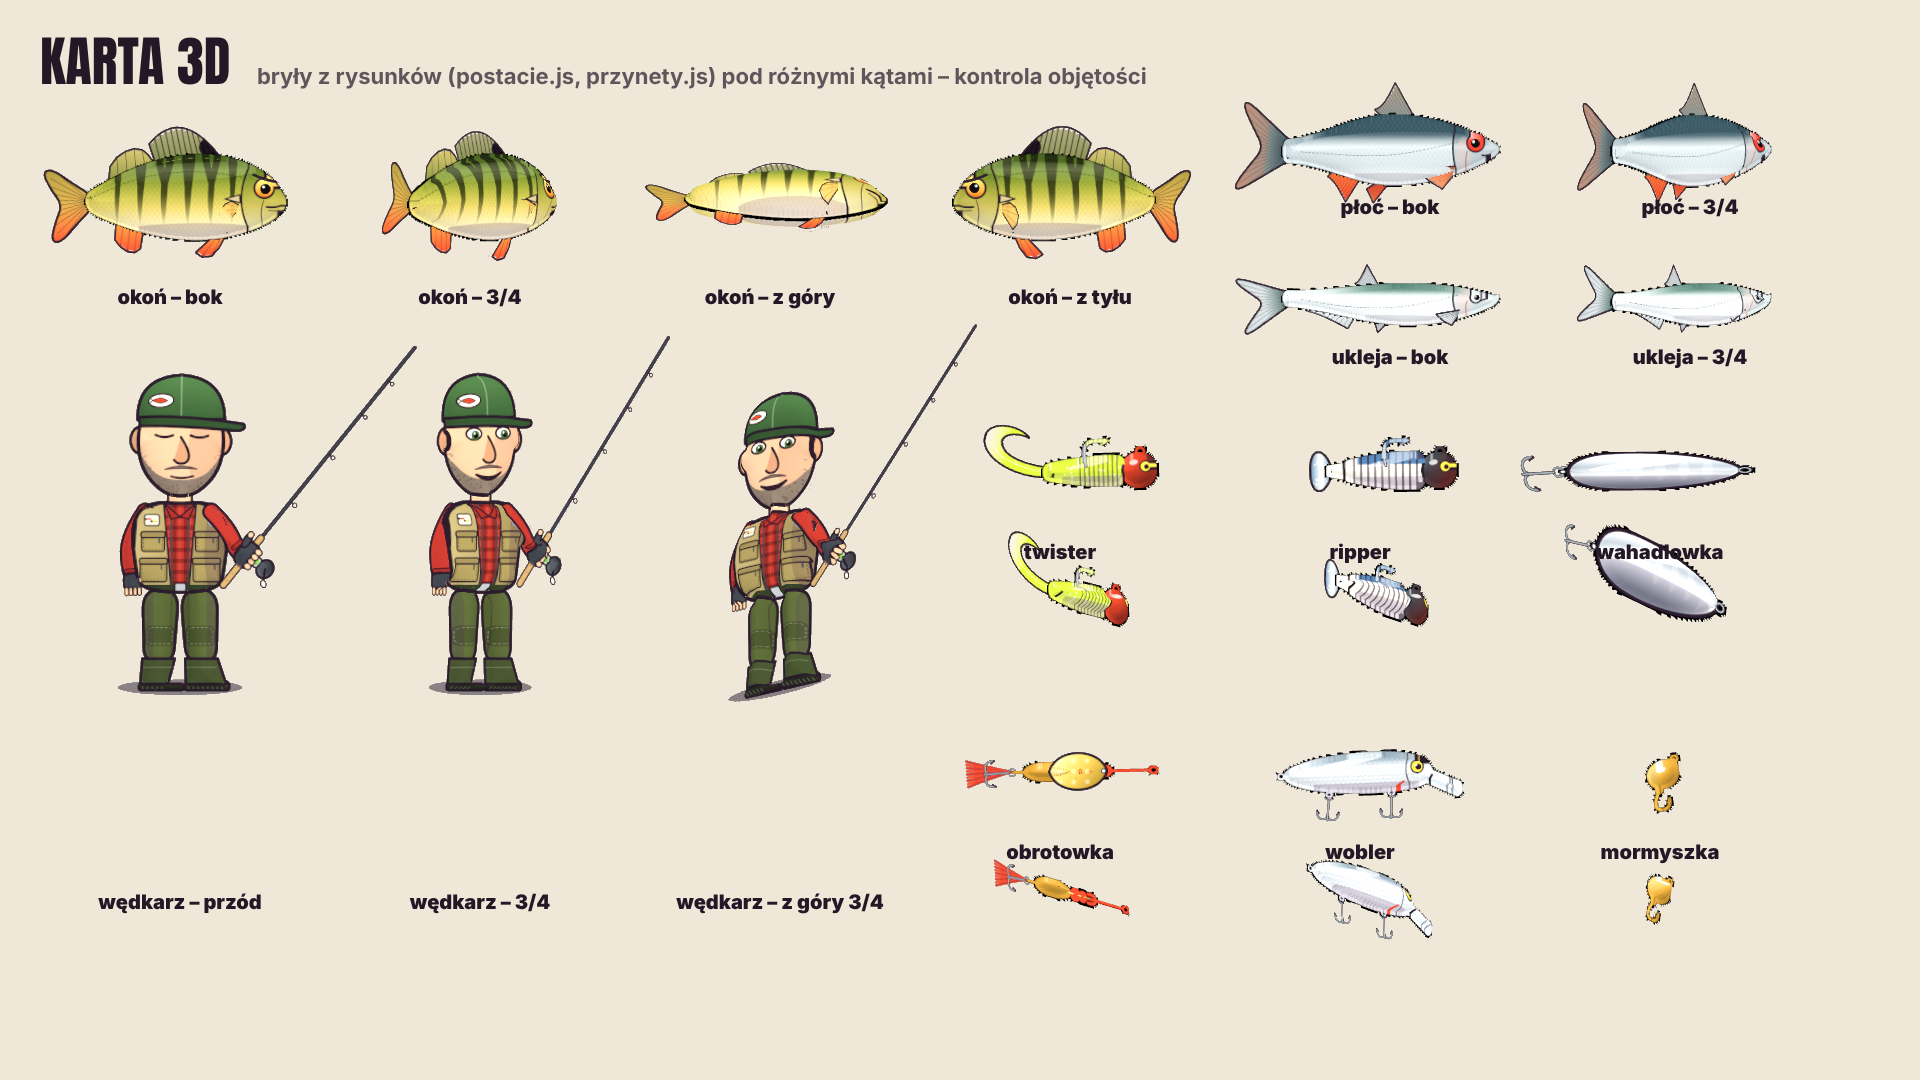
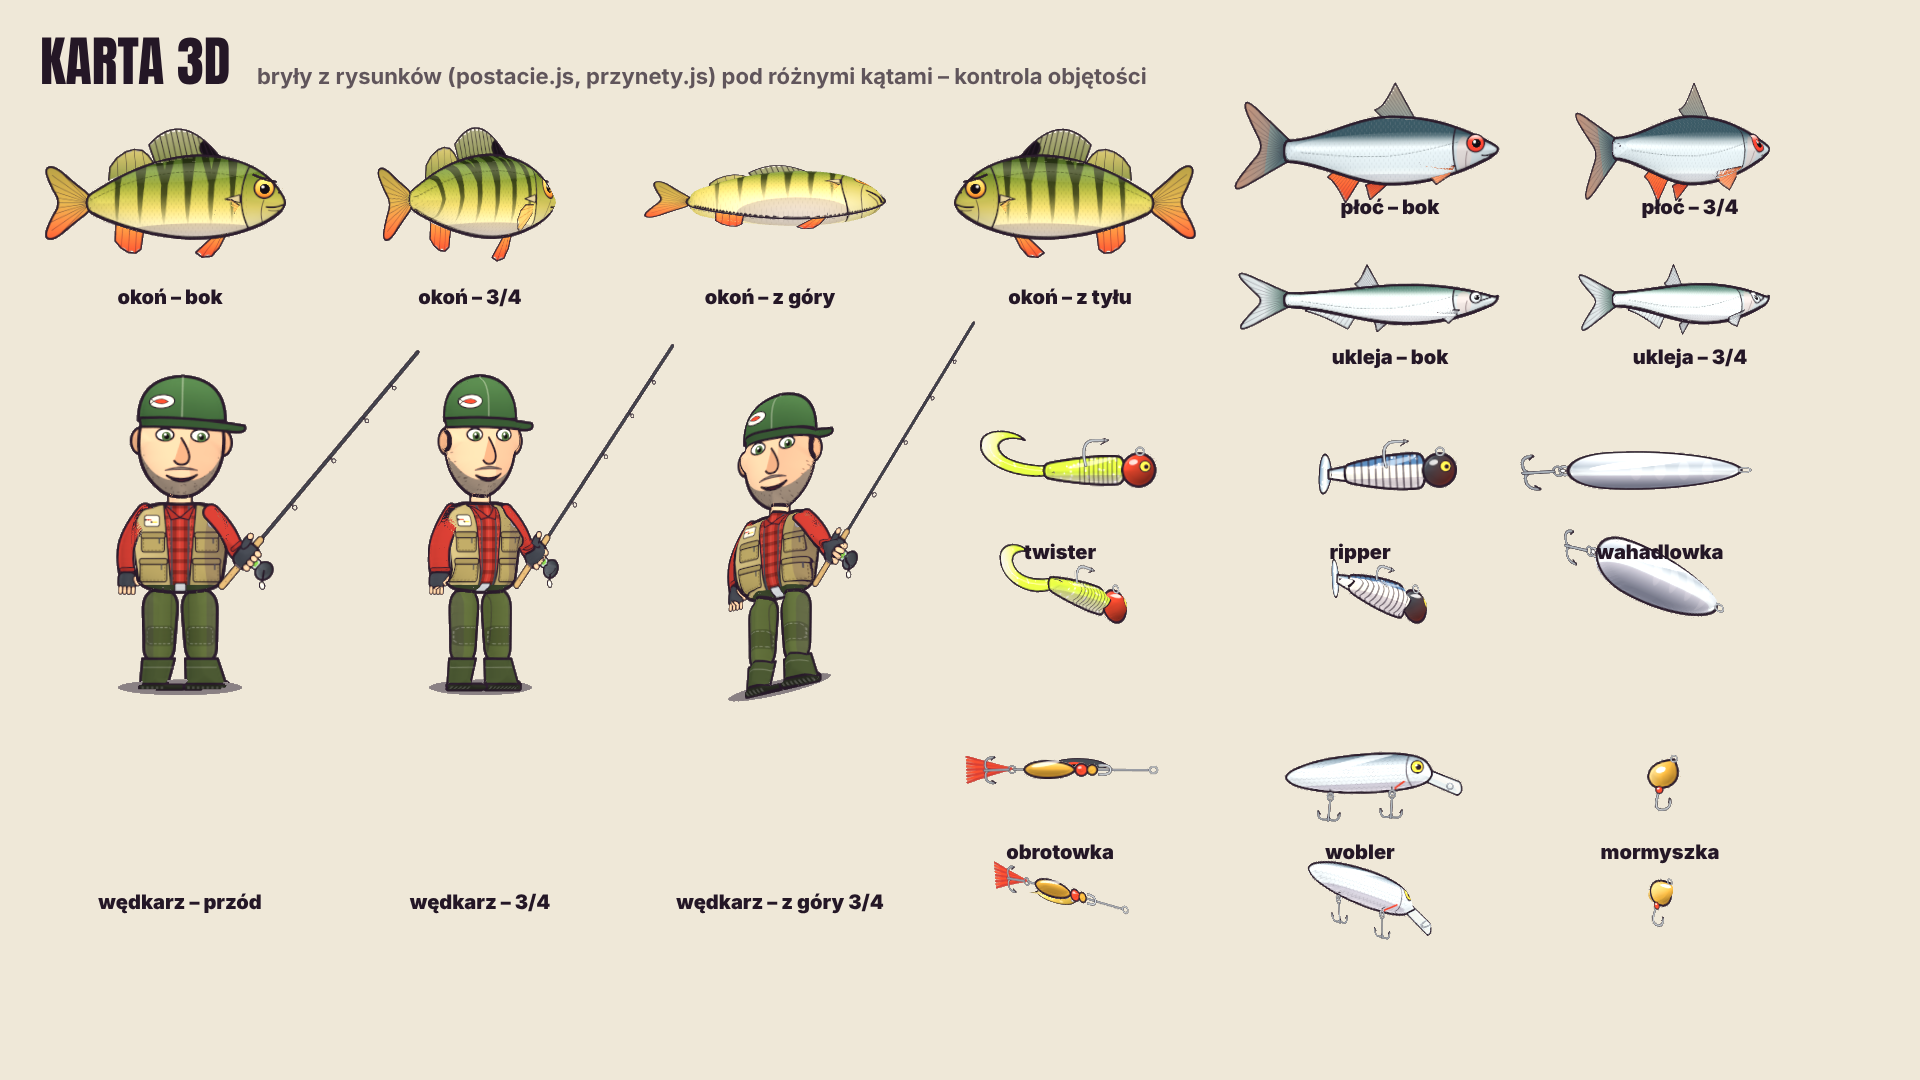
Poprawki: bez ważki przy wypuszczaniu, oczy okonia bez rozjeżdżania (warstwy przy powierzchni), plecionka 0,05–0,10 mm, paletka obrotówki szeroko wokół drutu, okoń w dłoni głową od wędkarza, paszcza otwarta 0,6 s przed połknięciem i zamknięta od razu, wobler bez oczka w ogonie
Claude-Session: https://claude.ai/code/session_01YFDAx3363ZnHR5mXZwci3a

diff --git a/atlas3d/okon_jak2.html b/atlas3d/okon_jak2.html
@@ -169,7 +169,7 @@ const SCENY = {
     el(PRZYNETY.twister({ dl: .28 }), X - .16, 1.06, 11.2, { predkosc: .6 }); el(PRZYNETY.ripper({ dl: .28 }), X + .3, 1.06, 11.6, { predkosc: .6 });
     el(PRZYNETY.obrotowka({ dl: .3 }), X - .16, .66, 13.2, { predkosc: .5 }); el(PRZYNETY.wobler({ dl: .28 }), X + .3, .66, 13.6, { predkosc: .6 });
     dzwiek(4.8, 'korbka', .6);
-    etykieta('wędka 2–10 g', -3.2, 2.2, z, 'z', 1.8); etykieta('kołowrotek 1000–2500', X + .02, 1.9, z, 'z', 5, 7.4); etykieta('cienka plecionka', X + .38, 1.9, z, '', 7.6);
+    etykieta('wędka 2–10 g', -3.2, 2.2, z, 'z', 1.8); etykieta('kołowrotek 1000–2500', X + .02, 1.9, z, 'z', 5, 7.4); etykieta('plecionka 0,05–0,10 mm', X + .38, 1.9, z, '', 7.6);
     etykieta('przypon: fluorocarbon lub żyłka 0,16–0,22 mm', X + .2, 1.47, z, '', 9);
     etykieta('guma 4–7 cm na główce', X + .07, 1.18, z, 'z', 11.8); etykieta('obrotówki i woblery', X + .07, .8, z, '', 13.8);
     return `<div class="chip" data-od=".2">🎒 SPRZĘT</div><h1 data-od=".5" data-do="16">Lekki<br><span>spinning</span></h1><div class="opis" style="top:300px;left:auto;right:64px;text-align:right" data-od="1" data-do="16">na drapieżnika</div>
@@ -217,7 +217,7 @@ const SCENY = {
         const bok = (1.05 * Math.sin(t * 2.1) + .25 * Math.sin(t * 4.7)) * (1 - k * .45);
         const nur = .7 * (odj(13.9) + odj(15.6) + odj(17.6)) + .3 * Math.max(0, Math.sin(t * 1.7 + 1)) * (1 - k * .6);
         return { x: lerp(P0.x + PY, Q.x, k) + bok, y: lerp(P0.y + .012, Q.y, k) - nur + .12 * Math.sin(t * 6.1), z: lerp(zt, Q.z, k) + bok * .3, patrzNa: [PX, -3.6] }; }   // w holu głową do wędkarza
-      w.updateMatrixWorld(true); const d = w.userData.postac.dlon(); return { x: d.x + .25, y: d.y + .05, z: d.z }; };
+      w.updateMatrixWorld(true); const d = w.userData.postac.dlon(); return { x: d.x - .2, y: d.y + .05, z: d.z, kier: -1 }; };
     o.userData.ryba.walka = t => t >= BR && t < LAD ? 1 : 0;   // szarpanie łbem i ogonem w holu
     w.userData.ruch = t => { const st = w.userData.postac.st, wyj = t >= LAD; st.hol = t >= BR && !wyj; st.podrywanie = t < BR; st.trzyma = wyj; st.mina = wyj ? 'usmiech' : 'skupiony'; o.userData.bezKolizji = wyj; return {}; };
     zylka(w, t => { const p = tor.punkt(Math.min(ruch(t), 1)); return [p.x, p.y, p.z]; }, false, { typ: 'ripper', dl: .55, branie: { od: BR, ryba: o } });
@@ -270,11 +270,11 @@ const SCENY = {
     nowaScena({ ...LATO, seed: 51 }); swiatJezioro(); pomost(PX, -26, -3);
     const POD = [[-2.6, 0, 1.6], [-4.9, -1.85, -4.6]], NAD = [[-4.4, 1.5, 1.8], [-5, 1.3, -3.6]];
     kam(...NAD, { klucze: [[0, ...NAD], [2.4, [-4.3, 1.3, 2.1], [-4.8, .8, -3.4]], [3.8, [-2.4, 0, 1.4], [-4.9, -1.75, -3.6]], [19, ...POD]] });
-    kregi(4); wazka(-3.5, 1.3, -1);
+    kregi(4);
     const w = postaw(wedkarz(1.9, { st: { mina: 'usmiech', trzyma: true } }), PX, .65, -3.6);
-    const r = postaw(okon(.42, { mina: 'zdziwiony', lewo: true }), PX, 1.5, -3.3);
+    const r = postaw(okon(.42, { mina: 'zdziwiony' }), PX, 1.5, -3.3);
     r.userData.ruch = t => { w.updateMatrixWorld(true); const d = w.userData.postac.dlon(), k = sm((t - 1.6) / .9), a = sm((t - 2.6) / 6);
-      return { x: d.x + .25 + .5 * k - 1.15 * a - .03 * Math.max(0, t - 2.6), y: lerp(d.y + .05, -1.1, k) - .35 * a + .04 * Math.sin(t * 3) * a }; };
+      return { x: d.x - .2 - .2 * k - 1.15 * a - .03 * Math.max(0, t - 2.6), y: lerp(d.y + .05, -1.1, k) - .35 * a + .04 * Math.sin(t * 3) * a, kier: t < 2.6 ? -1 : undefined }; };   // w dłoni: ogon przy dłoni, głowa na zewnątrz – od wędkarza
     r.userData.bezKolizji = true;
     [[-4.3, -1.3, -6.6, .42, 0], [-3.8, -1.6, -7.1, .4, 2], [-4.6, -1.7, -7.4, .36, 4]].forEach(([x, y, z, dl, f]) => plyw(postaw(okon(dl), x, y, z), { dx: .25, okres: 7, faza: f }));
     babelki(); mul();

diff --git a/atlas3d/postacie.js b/atlas3d/postacie.js
@@ -118,7 +118,7 @@ function nadmuchaj(czesci, { T, D, plaskie = [], bryla, ob = 15 } = {}) {
       for (let j = 0; j <= ny; j++) for (let i = 0; i <= nx; i++) { const px = Math.min(W - 1, Math.round(i / nx * (W - 1))), py = Math.min(Hh - 1, Math.round(j / ny * (Hh - 1)));
         let m = 0; for (let dy = -2; dy <= 2; dy++) for (let dx = -2; dx <= 2; dx++) { const xx = Math.min(W - 1, Math.max(0, px + dx * Math.ceil(res * SIATKA / 4))), yy = Math.min(Hh - 1, Math.max(0, py + dy * Math.ceil(res * SIATKA / 4))); m = Math.max(m, dat[(yy * W + xx) * 4 + 3]); }
         if (m > 10) al[j * (nx + 1) + i] = 1; } }
-    const poz = [], uv = [], idx = [], nr = new Int32Array((nx + 1) * (ny + 1)).fill(-1), eps = c.userData.kolejnosc * Math.max(1.2, T * .012) + .4;   // każda warstwa wyraźnie nad poprzednią (źrenica nad okiem, oko nad ciałem) – bez przebijania przy różnej gęstości siatek   // nakładki tuż nad powierzchnią (bez odstawania)
+    const poz = [], uv = [], idx = [], nr = new Int32Array((nx + 1) * (ny + 1)).fill(-1), eps = .5 + .12 * c.userData.kolejnosc;   // warstwy tuż przy powierzchni (oko, źrenica, brew bez paralaksy); kolejność rysowania z polygonOffset   // każda warstwa wyraźnie nad poprzednią (źrenica nad okiem, oko nad ciałem) – bez przebijania przy różnej gęstości siatek   // nakładki tuż nad powierzchnią (bez odstawania)
     for (let strona = 0; strona < 2; strona++) {
       nr.fill(-1);
       for (let j = 0; j <= ny; j++) for (let i = 0; i <= nx; i++) {
@@ -148,6 +148,7 @@ function nadmuchaj(czesci, { T, D, plaskie = [], bryla, ob = 15 } = {}) {
     const map = c.material.map; c.material.dispose();
     c.material = new THREE.MeshLambertMaterial({ map, emissiveMap: map, emissive: '#ffffff', emissiveIntensity: 1, color: '#ffffff', transparent: true, alphaTest: .35, depthWrite: true, side: THREE.FrontSide });
     c.material.userData.jasnosc = .5; c.material.color.setScalar(.5);
+    c.material.polygonOffset = true; c.material.polygonOffsetFactor = -c.userData.kolejnosc * .6; c.material.polygonOffsetUnits = -c.userData.kolejnosc * 4;
     if (bryla.includes(c) && bryla !== czesci) c.material.alphaTest = .35;
     if (bryla.includes(c) && bryla !== czesci) c.layers.enable(5);   // bryła: kształt wyznacza siatka, bez dziur przy brzegu (przez dziury prześwitywał czarny kontur)
     // kontur bryły (odwrócona otoczka): czarna skorupa widoczna tylko na krawędzi sylwetki pod każdym kątem; wspólna geometria – podąża za falą ciała

diff --git a/atlas3d/przynety.js b/atlas3d/przynety.js
@@ -142,11 +142,12 @@ export function stworzObrotowke({ dl = .1, paletka = ['#e9c85a', '#3b3f48'] } = 
     tyl: g => { ksz(g); wypelnij(g, paletka[1]); g.save(); ksz(g); g.clip(); g.beginPath(); g.arc(370, 110, 26, 0, 7); wypelnij(g, '#e2452a'); g.beginPath(); g.arc(370, 110, 11, 0, 7); wypelnij(g, '#111'); g.restore(); ksz(g); obrys(g, 7); g.beginPath(); g.arc(452, 110, 6, 0, 7); wypelnij(g, '#e9edf0'); obrys(g, 3); },
   });
   blacha.userData.ustaw('przod');
-  const grupa = zloz([kotw, korpus, blacha], kb); podepnij(korpus, kotw); podepnij(korpus, blacha); const f = Math.random() * 6;
+  const grupa = zloz([kotw, korpus, blacha], kb); podepnij(korpus, kotw); podepnij(korpus, blacha); const f = Math.random() * 6, dlB = dl * 1.1;
   grupa.userData.przyneta = { dl, nos: nosZ(s, O, OCZKO), anim: (t, st = {}) => {
     const w = 30 * (st.predkosc ?? 1), c = Math.cos(w * t + f);
     korpus.rotation.z = .02 * Math.sin(w * .1 * t + f);
     blacha.scale.y = Math.max(.06, Math.abs(c)); blacha.userData.ustaw(c >= 0 ? 'przod' : 'tyl');   // obrót wokół drutu: skrót + druga strona
+    blacha.position.z = blacha.userData.pozycja0.z + .32 * dlB * Math.sin(w * t + f); blacha.position.y = blacha.userData.pozycja0.y + .1 * dlB * c;   // paletka krąży szeroko wokół drutu, nie wchodzi w korpus
     kotw.rotation.z = .1 * Math.sin(w * .15 * t + f); } };
   return grupa;
 }
@@ -163,7 +164,6 @@ export function stworzWoblera({ dl = .11, malowanie = 'plotka' } = {}) {
     // ster wtopiony w pysk (rysowany pod korpusem, jedna bryła)
     g.beginPath(); g.moveTo(585, 108); g.lineTo(700, 160); g.quadraticCurveTo(714, 192, 690, 202); g.lineTo(588, 152); g.closePath();
     wypelnij(g, 'rgba(225,240,250,.7)'); obrys(g, 6); g.beginPath(); g.moveTo(612, 128); g.lineTo(690, 170); obrys(g, 3, 'rgba(255,255,255,.85)');
-    g.beginPath(); g.moveTo(150, 120); g.lineTo(136, 120); obrys(g, 5); g.beginPath(); g.arc(128, 120, 9, 0, 7); obrys(g, 5); obrys(g, 2.5, '#b8c0c8');          // oczko w ogonie (jak w prawdziwym woblerze)
     gladko(g, ksz); wypelnij(g, lg(g, 0, 50, 0, 185, [[0, m.grzbiet], [.35, m.bok], [.7, m.bok], [1, m.brzuch]]));
     g.save(); gladko(g, ksz); g.clip();
     for (let y = 50, r = 0; y < 190; y += 12, r++) for (let x = 150 + (r % 2) * 8; x < 560; x += 16) { g.beginPath(); g.arc(x, y, 8, Math.PI * .1, Math.PI * .9); obrys(g, 1.4, 'rgba(30,30,40,.18)'); }

diff --git a/atlas3d/silnik.js b/atlas3d/silnik.js
@@ -674,6 +674,7 @@ window.klatka = tr => { const t = naProjekt(tr);
         const strona = u.ryba.kierWymuszony ?? (Math.abs(vR) > .15 ? Math.sign(vR) : stara); u.ryba.strona = strona;
         const skret = Math.max(-g, Math.min(g, Math.atan2(-vC, Math.max(Math.abs(vR), .05))));
         u.ryba.ostTh = strona > 0 ? skret : Math.PI - skret; }
+      if (u.ryba.kierWymuszony !== undefined && !u.ryba.patrzNa) { u.ryba.strona = u.ryba.kierWymuszony; u.ryba.ostTh = u.ryba.kierWymuszony > 0 ? 0 : Math.PI; }
       if (u.ryba.patrzNa) {   // ryba zwrócona do punktu (np. wędkarza w holu): pełny kierunek w głąb kadru, do 60° od profilu
         const [px, pz] = u.ryba.patrzNa, dx = px - m.position.x, dz = pz - m.position.z; tmpV.set(1, 0, 0).applyQuaternion(camera.quaternion); const aR = dx * tmpV.x + dz * tmpV.z;
         tmpV.set(0, 0, 1).applyQuaternion(camera.quaternion); const aC = dx * tmpV.x + dz * tmpV.z, g2 = 1.05, sk = Math.max(-g2, Math.min(g2, Math.atan2(-aC, Math.abs(aR) + 1e-3)));
@@ -684,7 +685,7 @@ window.klatka = tr => { const t = naProjekt(tr);
       let th = u.ryba.thAkt ?? thCel; if (dtK <= 0 || dtK > .2) th = thCel; else { let d = thCel - th; d = Math.atan2(Math.sin(d), Math.cos(d)); th += Math.sign(d) * Math.min(Math.abs(d), 3.5 * dtK); }
       u.ryba.thAkt = th;
       u.wnetrze.rotation.y = th;
-      if (u.ryba.branieOd !== undefined) u.ryba.st.paszcza = t > u.ryba.branieOd - .32 && t < u.ryba.branieOd + .22 ? 1 : 0;
+      if (u.ryba.branieOd !== undefined) u.ryba.st.paszcza = t > u.ryba.branieOd - .62 && t < u.ryba.branieOd ? 1 : 0;   // paszcza otwiera się ok. 0,6 s przed połknięciem i zamyka się od razu
       u.ryba.anim(t, { tempo: 1 + Math.min(2.5, Math.abs(v) * 1.5), ...u.ryba.st });
       tmpC.copy(TINT).lerp(TINT_WODA, Math.min(.5, .15 + Math.max(0, -m.position.y) / 14));
       m.traverse(o => { if (o.isMesh && !o.userData.otoczka) tintuj(o.material, tmpC); });
